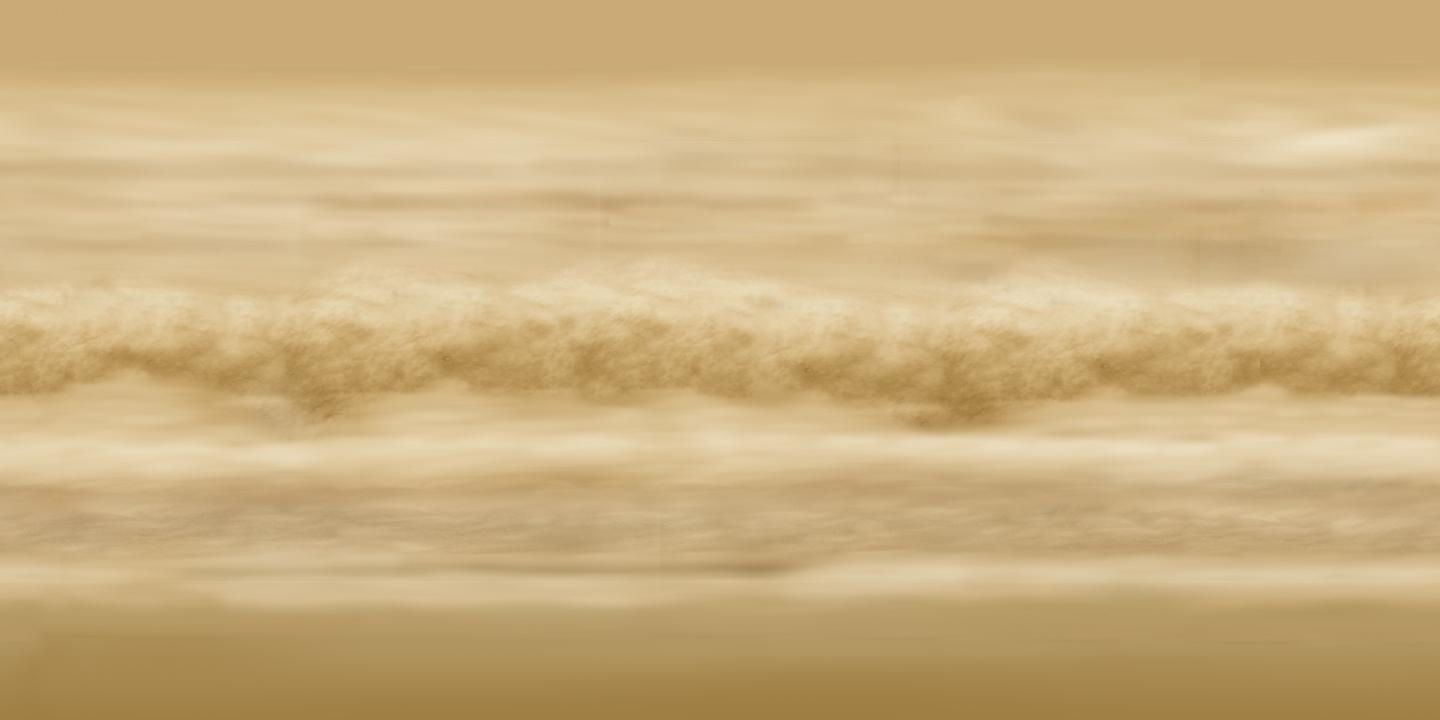
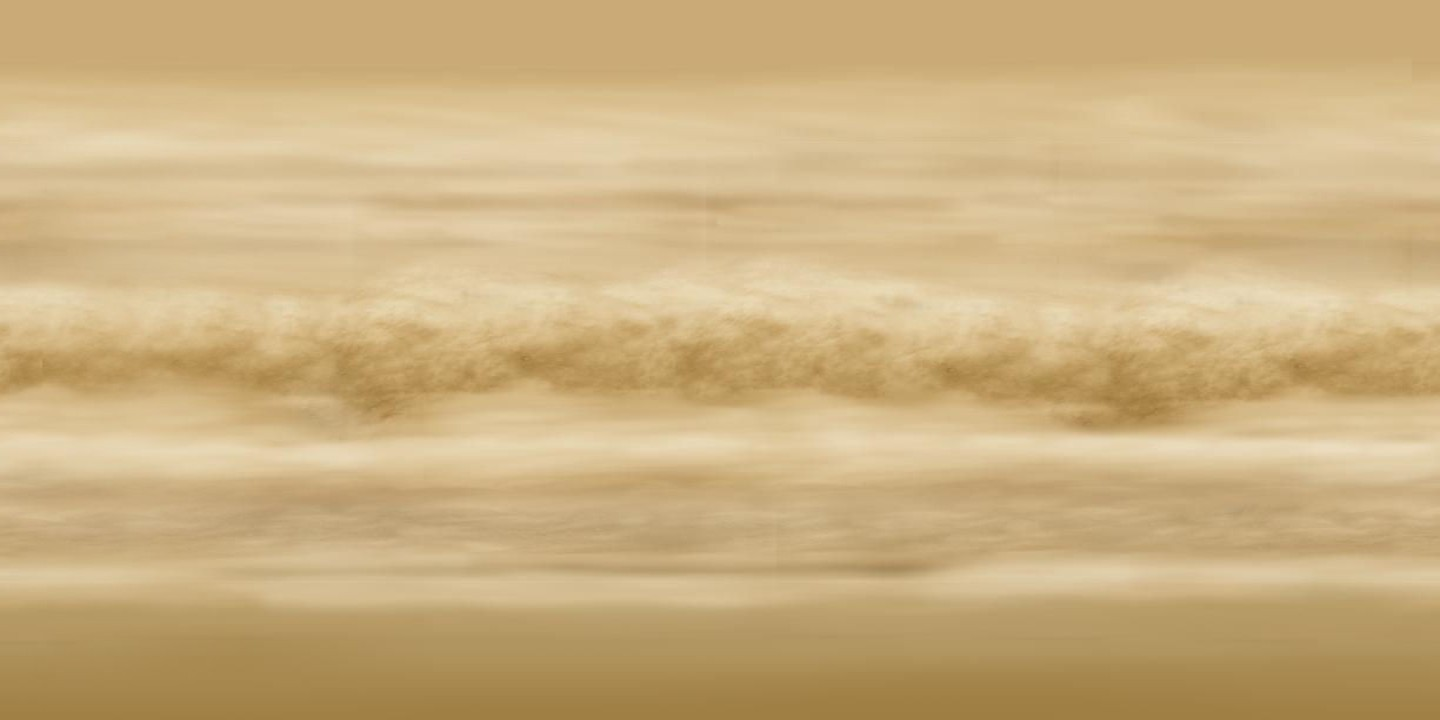
Planet textures: six generated earth-like worlds, eight old textures made seamless, and every planet picks among all 47.
revival

diff --git a/tools/generer-terre.py b/tools/generer-terre.py
@@ -1,0 +1,180 @@
+#!/usr/bin/env python3
+"""Usage: generer-terre.py [output folder].
+Generates the earth-like planet textures (img/planete/40.jpg to 45.jpg) from invented continents: 3D noise sampled on a sphere, so the map wraps horizontally with no seam and never copies the real Earth. Water, sand, forest, desert, mountains and snow follow altitude, latitude and moisture."""
+import os
+import sys
+
+import numpy
+from PIL import Image
+
+LARGEUR = 1440
+HAUTEUR = 720
+TAILLE_RESEAU = 64
+OCTAVES = 7
+PERSISTANCE = 0.5
+ECART_FREQUENCE = 2.0
+DECALAGE_POSITIF = 17.0
+QUALITE_JPEG = 90
+SEUIL_COUTURE = 2.0
+LATITUDE_CALOTTE = 73.0
+FLOU_CALOTTE = 5.0
+LATITUDE_DESERT = 25.0
+LARGEUR_DESERT = 10.0
+FORCE_DESERT = 0.3
+FORCE_EQUATEUR_HUMIDE = 0.18
+FORCE_RELIEF = 2.6
+OMBRE_MINIMUM = 0.55
+OMBRE_MAXIMUM = 1.2
+LUMIERE = (-0.6, -0.8)
+RAYON_PLAGE = 0.02
+FORCE_PLAGE = 0.55
+OPACITE_NUAGES = 0.4
+
+OCEAN_PROFOND = numpy.array([0.02, 0.09, 0.27])
+OCEAN_CLAIR = numpy.array([0.13, 0.52, 0.62])
+SABLE = numpy.array([0.86, 0.77, 0.52])
+SAVANE = numpy.array([0.62, 0.6, 0.33])
+HERBE = numpy.array([0.34, 0.55, 0.22])
+FORET = numpy.array([0.1, 0.36, 0.14])
+CONIFERE = numpy.array([0.11, 0.29, 0.2])
+TOUNDRA = numpy.array([0.5, 0.5, 0.43])
+ROCHE = numpy.array([0.43, 0.38, 0.34])
+NEIGE = numpy.array([0.95, 0.97, 1.0])
+
+MONDES = (
+    {'numero': 40, 'graine': 4011, 'terres': 0.3, 'frequence': 0.9, 'nord': 0.35, 'equateur': 0.0, 'froid': 0.0, 'aridite': 0.0, 'nuages': 0.5},
+    {'numero': 41, 'graine': 4177, 'terres': 0.33, 'frequence': 1.7, 'nord': 0.0, 'equateur': 0.0, 'froid': 0.0, 'aridite': 0.05, 'nuages': 0.55},
+    {'numero': 42, 'graine': 4293, 'terres': 0.14, 'frequence': 2.6, 'nord': 0.0, 'equateur': 0.1, 'froid': 0.05, 'aridite': -0.05, 'nuages': 0.6},
+    {'numero': 43, 'graine': 4351, 'terres': 0.38, 'frequence': 1.3, 'nord': 0.0, 'equateur': 0.55, 'froid': 0.0, 'aridite': -0.05, 'nuages': 0.5},
+    {'numero': 44, 'graine': 4466, 'terres': 0.35, 'frequence': 1.4, 'nord': 0.15, 'equateur': 0.0, 'froid': 0.28, 'aridite': -0.1, 'nuages': 0.45},
+    {'numero': 45, 'graine': 4589, 'terres': 0.33, 'frequence': 1.2, 'nord': 0.0, 'equateur': 0.0, 'froid': -0.05, 'aridite': 0.3, 'nuages': 0.3},
+)
+
+
+def lisser(valeur):
+    return valeur * valeur * (3.0 - 2.0 * valeur)
+
+
+def bruit(points, frequence, graine):
+    reseau = numpy.random.default_rng(graine).random((TAILLE_RESEAU, TAILLE_RESEAU, TAILLE_RESEAU))
+    position = points * frequence + DECALAGE_POSITIF
+    entier = numpy.floor(position).astype(int)
+    reste = lisser(position - entier)
+    bas = entier % TAILLE_RESEAU
+    haut = (entier + 1) % TAILLE_RESEAU
+    resultat = 0.0
+    for choix_x in (0, 1):
+        for choix_y in (0, 1):
+            for choix_z in (0, 1):
+                x = haut[..., 0] if choix_x else bas[..., 0]
+                y = haut[..., 1] if choix_y else bas[..., 1]
+                z = haut[..., 2] if choix_z else bas[..., 2]
+                poids = (reste[..., 0] if choix_x else 1 - reste[..., 0]) * (reste[..., 1] if choix_y else 1 - reste[..., 1]) * (reste[..., 2] if choix_z else 1 - reste[..., 2])
+                resultat = resultat + reseau[x, y, z] * poids
+    return resultat
+
+
+def fractal(points, frequence, graine):
+    total = 0.0
+    amplitude = 1.0
+    somme = 0.0
+    for octave in range(OCTAVES):
+        total = total + amplitude * bruit(points, frequence * ECART_FREQUENCE ** octave, graine + octave * 101)
+        somme += amplitude
+        amplitude *= PERSISTANCE
+    return total / somme
+
+
+def points_sur_sphere():
+    longitude = (numpy.arange(LARGEUR) + 0.5) / LARGEUR * 2 * numpy.pi - numpy.pi
+    latitude = numpy.pi / 2 - (numpy.arange(HAUTEUR) + 0.5) / HAUTEUR * numpy.pi
+    lon, lat = numpy.meshgrid(longitude, latitude)
+    points = numpy.stack([numpy.cos(lat) * numpy.cos(lon), numpy.cos(lat) * numpy.sin(lon), numpy.sin(lat)], axis=-1)
+    return points, numpy.degrees(lat)
+
+
+def quantile_pondere(valeurs, poids, part):
+    ordre = numpy.argsort(valeurs.ravel())
+    cumul = numpy.cumsum(poids.ravel()[ordre])
+    cumul /= cumul[-1]
+    return valeurs.ravel()[ordre][numpy.searchsorted(cumul, part)]
+
+
+def rampe(valeurs, arrets):
+    resultat = numpy.zeros(valeurs.shape + (3,))
+    positions = [arret[0] for arret in arrets]
+    for canal in range(3):
+        resultat[..., canal] = numpy.interp(valeurs, positions, [arret[1][canal] for arret in arrets])
+    return resultat
+
+
+def melange(a, b, poids):
+    return a * (1 - poids[..., None]) + b * poids[..., None]
+
+
+def etape(valeurs, debut, fin):
+    return lisser(numpy.clip((valeurs - debut) / (fin - debut), 0.0, 1.0))
+
+
+def monde(parametres):
+    graine = parametres['graine']
+    points, latitude = points_sur_sphere()
+    deformation = numpy.stack([fractal(points, 1.5, graine + 7 * axe) - 0.5 for axe in range(3)], axis=-1)
+    points_deformes = points + 0.35 * deformation
+    altitude = fractal(points_deformes, parametres['frequence'], graine)
+    altitude = altitude + parametres['nord'] * numpy.sin(numpy.radians(latitude)) + parametres['equateur'] * numpy.cos(numpy.radians(latitude)) ** 2
+    poids_surface = numpy.cos(numpy.radians(latitude))
+    mer = quantile_pondere(altitude, poids_surface, 1.0 - parametres['terres'])
+    relief = altitude - mer
+    sur_terre = relief > 0
+    haut_terre = numpy.where(sur_terre, relief / max(relief.max(), 1e-6), 0.0)
+    fond = numpy.where(sur_terre, 0.0, relief / min(relief.min(), -1e-6))
+
+    bruit_temperature = fractal(points, 2.0, graine + 900) - 0.5
+    temperature = numpy.cos(numpy.radians(latitude)) ** 0.9 - 0.55 * haut_terre - parametres['froid'] + 0.2 * bruit_temperature
+    humidite = fractal(points, 2.5, graine + 1700) * 1.3 - 0.15 - parametres['aridite']
+    humidite -= FORCE_DESERT * numpy.exp(-((numpy.abs(latitude) - LATITUDE_DESERT) / LARGEUR_DESERT) ** 2)
+    humidite += FORCE_EQUATEUR_HUMIDE * numpy.exp(-(latitude / 12.0) ** 2)
+    humidite = numpy.clip(humidite, 0.0, 1.0)
+
+    chaud = rampe(humidite, ((0.0, SABLE), (0.3, SAVANE), (0.52, HERBE), (0.8, FORET)))
+    froid = rampe(humidite, ((0.0, TOUNDRA), (0.5, CONIFERE), (1.0, CONIFERE)))
+    terre = melange(froid, chaud, etape(temperature, 0.35, 0.6))
+    terre = melange(terre, ROCHE, etape(haut_terre, 0.35, 0.7))
+    terre = melange(terre, NEIGE, numpy.maximum(etape(-temperature, -0.28, -0.12), etape(haut_terre, 0.78, 0.95) * etape(-temperature, -0.95, -0.3)))
+    terre = melange(terre, SABLE, (1.0 - etape(haut_terre, 0.0, RAYON_PLAGE)) * FORCE_PLAGE)
+
+    mer_couleur = rampe(numpy.clip(fond, 0.0, 1.0) ** 0.55, ((0.0, OCEAN_CLAIR), (1.0, OCEAN_PROFOND)))
+    couleurs = numpy.where(sur_terre[..., None], terre, mer_couleur)
+
+    bruit_calotte = fractal(points, 4.0, graine + 2300) - 0.5
+    calotte = etape(numpy.abs(latitude) + FLOU_CALOTTE * bruit_calotte * 2, LATITUDE_CALOTTE, LATITUDE_CALOTTE + 4.0)
+    couleurs = melange(couleurs, NEIGE, calotte)
+
+    gradient_y, gradient_x = numpy.gradient(altitude)
+    gradient_x = gradient_x / numpy.maximum(numpy.cos(numpy.radians(latitude)), 0.15)
+    ombre = 1.0 + FORCE_RELIEF * LARGEUR * 0.012 * (gradient_x * LUMIERE[0] + gradient_y * LUMIERE[1])
+    ombre = numpy.where(sur_terre, numpy.clip(ombre, OMBRE_MINIMUM, OMBRE_MAXIMUM), 1.0)
+    couleurs = couleurs * ombre[..., None]
+
+    nuages = numpy.clip((fractal(points * numpy.array([1.0, 1.0, 2.2]), 3.0, graine + 3100) - 0.6) * 3.5, 0.0, 1.0) * parametres['nuages']
+    couleurs = melange(couleurs, numpy.ones(3) * 0.97, nuages * OPACITE_NUAGES / 0.55)
+    return Image.fromarray((numpy.clip(couleurs, 0.0, 1.0) * 255).astype(numpy.uint8))
+
+
+def rapport_couture(image):
+    pixels = numpy.array(image.convert('RGB')).astype(float)
+    couture = numpy.abs(pixels[:, 0] - pixels[:, -1]).mean()
+    voisin = numpy.abs(pixels[:, 1:] - pixels[:, :-1]).mean()
+    return couture / max(voisin, 0.1)
+
+
+if __name__ == '__main__':
+    destination = sys.argv[1] if len(sys.argv) > 1 else os.path.join(os.path.dirname(os.path.abspath(__file__)), '..', 'img', 'planete')
+    os.makedirs(destination, exist_ok=True)
+    for parametres in MONDES:
+        image = monde(parametres)
+        rapport = rapport_couture(image)
+        sortie = os.path.join(destination, '%d.jpg' % parametres['numero'])
+        image.save(sortie, quality=QUALITE_JPEG)
+        print(sortie, 'couture', round(rapport, 2), 'OK' if rapport <= SEUIL_COUTURE else 'COUTURE VISIBLE')

diff --git a/model/afficheSysteme.php b/model/afficheSysteme.php
@@ -31,14 +31,12 @@ foreach(Flotte::liste($Joueur->id) as $ligne){
 foreach($systeme->planetes as $p){
     $couleurPlanete = $p->id_camp === null ? Camp::SANS_CAMP_COULEUR : (new Camp($p->id_camp))->couleur;
     $releve = Analyse::releve($Joueur, $p);
-    $map_planete = $p->id % 27;
-    if(!$map_planete) $map_planete = 1;
     $stock = $posees[$p->id] ?? array();
     $flottes = $flottesAuRepos[$p->id] ?? array();
 ?>
     <section class="panneau fiche--lien" style="--accent:<?= htmlspecialchars($couleurPlanete) ?>">
         <div class="fiche__tete">
-            <div class="avatar avatar--planete" style="background-image:url(img/planete/<?= $map_planete ?>.jpg)"></div>
+            <div class="avatar avatar--planete" style="background-image:url(img/planete/<?= $p->numeroTexture() ?>.jpg)"></div>
             <div>
                 <h2 class="fiche__nom"><a href="?p=affichePlanete&id_planete=<?= $p->id ?>"><?= htmlspecialchars($p->nom) ?></a></h2>
                 <p class="md3-secondary"><?= Camp::libelle($p->id_camp) ?> · <?= $p->gouverneur === $Joueur->id ? 'Votre colonie' : ($p->gouverneur === 0 ? 'Libre' : $p->getGouverneurNom()) ?></p>

diff --git a/model/affichePlanete.php b/model/affichePlanete.php
@@ -11,15 +11,13 @@ if(!$p->systeme->estConnuDe($Joueur->id)){
     throw new UnexpectedValueException("Cette planète est inconnue.");
 }
 $couleur = $p->id_camp === null ? Camp::SANS_CAMP_COULEUR : (new Camp($p->id_camp))->couleur;
-$map_planete=$id_planete%27;
-if(!$map_planete) $map_planete = 1;
 $defense = $p->bouclier + $p->canon;
 $defenseurs = Combat::defenseurs($p);
 ?>
 <?= Vue::filAriane(array(array(PAGES_TITRES['carte'], '?p=carte&systeme='.$p->id_systeme), array($p->systeme->nom, '?p=afficheSysteme&id_systeme='.$p->id_systeme), array($p->nom, null))) ?>
 <section class="panneau" style="--accent:<?= htmlspecialchars($couleur) ?>">
     <div class="fiche__tete fiche__tete--hero">
-        <div class="avatar avatar--planete avatar--planete-grand" style="background-image:url(img/planete/<?= $map_planete ?>.jpg)"></div>
+        <div class="avatar avatar--planete avatar--planete-grand" style="background-image:url(img/planete/<?= $p->numeroTexture() ?>.jpg)"></div>
         <div>
             <h1 class="fiche__nom"><?= htmlspecialchars($p->nom) ?></h1>
             <p class="md3-secondary">Système <?= $p->systeme->getNom() ?></p>

diff --git a/model/listePlanete.php b/model/listePlanete.php
@@ -12,14 +12,12 @@ if(count($gouvernees) === 0){
 foreach($gouvernees as $ligne){
     $p = new Planete($ligne->id);
     $couleur = $p->id_camp === null ? Camp::SANS_CAMP_COULEUR : (new Camp($p->id_camp))->couleur;
-    $map_planete = $p->id % 27;
-    if(!$map_planete) $map_planete = 1;
     $file = Vaisseau::enFile($p->id);
     $stock = Vaisseau::stock($p->id, $Joueur->id);
 ?>
     <section class="panneau" style="--accent:<?= htmlspecialchars($couleur) ?>">
         <div class="fiche__tete">
-            <div class="avatar avatar--planete" style="background-image:url(img/planete/<?= $map_planete ?>.jpg)"></div>
+            <div class="avatar avatar--planete" style="background-image:url(img/planete/<?= $p->numeroTexture() ?>.jpg)"></div>
             <div>
                 <h2 class="fiche__nom"><a href="?p=affichePlanete&id_planete=<?= $p->id ?>" data-tuto="<?= Tuto::CLE_PLANETE.$p->id ?>"><?= htmlspecialchars($p->nom) ?></a></h2>
                 <p class="md3-secondary">Système <?= $p->systeme->getNom() ?></p>

diff --git a/inc/class/Planete.class.php b/inc/class/Planete.class.php
@@ -26,6 +26,7 @@ class Planete {
     const CAPTURE_REVOLTE = 50;
     const REVOLTE_ALERTE = 40;
     const SEUIL_INDEPENDANCE = 51;
+    const TEXTURES = 47;
     const ILLUSTRATION_REJOINT = 'evenement-rejoint';
     const ILLUSTRATION_REVOLTE = 'evenement-revolte';
     const ILLUSTRATION_CONQUISE = 'evenement-conquise';
@@ -465,6 +466,10 @@ class Planete {
     public function apaiser(int $points): void {
         $query = "UPDATE " . MyPDO::DB_FLAG . "planete SET perc_revolte=GREATEST(perc_revolte-?,0) WHERE id=?";
         $this->bdd->query($query,$points,$this->id);
+    }
+
+    public function numeroTexture(): int {
+        return $this->id % self::TEXTURES + 1;
     }
 
     public function estOccupee(): bool {

diff --git a/SUIVI.md b/SUIVI.md
@@ -2,34 +2,8 @@
 
 ## À faire
 
-### 1. Nouvelles images de planètes pour enrichir la collection (26/11)
-
-Ta phrase : « fait generer de nouvelles image de planete pour enrichir tu peux donner ref ».
-
-Lu (rien codé) : les planètes s'affichent avec une texture 2:1 (1440×720 ou 1024×512) qui défile en boucle sur un disque (\`img/planete/1.jpg\` à \`26.jpg\`), choisie par \`id de la planète % 27\` dans 3 pages (\`afficheSysteme\`, \`affichePlanete\`, \`listePlanete\`). Contenu actuel : géantes gazeuses (1, 5, 7, 8, 12), roches cratérisées (2, 10, 11), type Vénus (3, 4, 6), type Mars (9, 20, 21, 22, 23, 25, 26), type Terre (13, 14, 15, 19), lave (17), glace (18), rouge et blanc (16). Il manque : mondes océans, déserts de dunes, jungles, mondes exotiques violets ou verts, mondes toxiques, cristallins, volcaniques sombres, archipels, toundra, mondes de tempêtes.
-
-Ce que je comprends : générer avec toi, une par une, de nouvelles textures dans le même format (2:1, projection plane en bande horizontale, raccord gauche-droite sans couture, vue à plat sans disque ni étoiles), et pour chaque prompt je te donne en référence une image existante à joindre dans Gemini pour garder le même rendu. Puis je les importe (\`27.jpg\`, \`28.jpg\`…) et je change le choix de la texture pour qu'il utilise toutes les images disponibles.
-
-Précision du 26/11 : « il fau sassurer que sa fasse pas un trait au defilement que le debut corresponde a la fin ». Les images générées par Gemini ne se raccordent jamais d'elles-mêmes : le bord gauche et le bord droit sont différents, ce qui trace une ligne verticale à chaque tour de défilement. J'ai mesuré les 26 textures existantes : 8 ont une couture nette (2, 12, 16, 5, 8, 18, 15, 10).
-
-Ce que je comprends : je fais un outil de raccord (\`tools/raccorder-planete.py\`) qui fond la fin de l'image dans son début sur une bande, pour que le dernier pixel se prolonge naturellement dans le premier ; il tourne automatiquement à l'import de chaque nouvelle texture, et je vérifie ensuite par la mesure que la couture n'est plus plus marquée qu'entre deux colonnes voisines. Aucune texture ne sera importée sans raccord vérifié.
-
-Ajout du 26/11 : « rajoute une planete cité ville hyper industrialisé » : une 13e texture (`planete-39`) : une planète-ville entière, mégalopole industrielle continue (usines, cheminées, raffineries, réseaux, lumières orange, scories en fusion, brume de pollution), générée juste après les plaines de sel.
-
-### 2. Planètes de type Terre avec des continents différents (26/11)
-
-Ta phrase : « fait des planete earth like, eau, terre de foret sable neige, mais des continent different ».
-
-Ce que je comprends : de nouvelles textures de monde habitable (océans, forêts, sable, neige) dont le dessin des continents est différent d'une planète à l'autre, pas des variantes de la même carte. Prompts prêts dans `tools/prompts-images.md` : `planete-40` à `planete-45`, un par disposition : supercontinent en croissant, trois continents très différents, monde-océan avec îles annulaires, continent en bande équatoriale, monde froid boisé et enneigé, monde sec avec mer intérieure. Elles passent par le même raccord sans couture, et le même rendu du raccord t'est montré à chaque image.
+Rien en attente.
 
 ## Questions en suspens
 
-
-
-1. Combien : ta précision du 26/11, « fait des tellurique » : uniquement des planètes telluriques (rocheuses, à surface solide), pas de géantes gazeuses. 12 nouvelles textures (38 au total) : monde océan, dunes dorées, jungle dense, archipel, toundra, canyons rouges, plaines de sel, volcanique sombre, cendres et fissures, minéral violet, minéral vert, cratères sombres. Je recommande ces 12.
-2. Le choix de la texture se fait par l'identifiant de la planète : avec plus d'images, les planètes existantes changeront d'aspect (l'univers est reconstruit à chaque remise à zéro de toute façon). Je recommande d'accepter ce changement.
-3. Références : ta précision du 26/11, « pour chaque prompt tu affiche l'image de reference ! » : avec chaque prompt, j'affiche moi-même l'image de référence (je l'envoie dans la conversation pour que tu puisses l'enregistrer et la joindre dans Gemini), et je dis laquelle c'est (par exemple `15.jpg` pour un monde terrestre, `21.jpg` pour un monde rocheux de type Mars). Je recommande oui.
-   Ta précision du 26/11 : « la prochaine essaye sans ref sa consomme des token » : à partir de la texture 3, plus d'image de référence envoyée ni à joindre : le prompt seul, sans la phrase sur l'image jointe. Je ne renvoie une référence que si le rendu est raté.
-   Ta précision du 26/11 : « affiche moi le rendu du raccord tu verifie a chaque img généré » : à chaque texture importée, je t'affiche le rendu du raccord (le bord droit collé au bord gauche, et deux copies côte à côte) avec la mesure de couture, avant de passer à la suivante.
-4. Je passe aussi l'outil sur les 8 textures existantes à couture visible (2, 12, 16, 5, 8, 18, 15, 10), pour que le défilement soit propre partout. Chacune perd environ 10 % de sa largeur, sans effet visible. Je recommande oui.
-5. Combien : 6 textures Terre (40 à 45), après la planète-ville en cours. Je recommande 6.
+Aucune.
